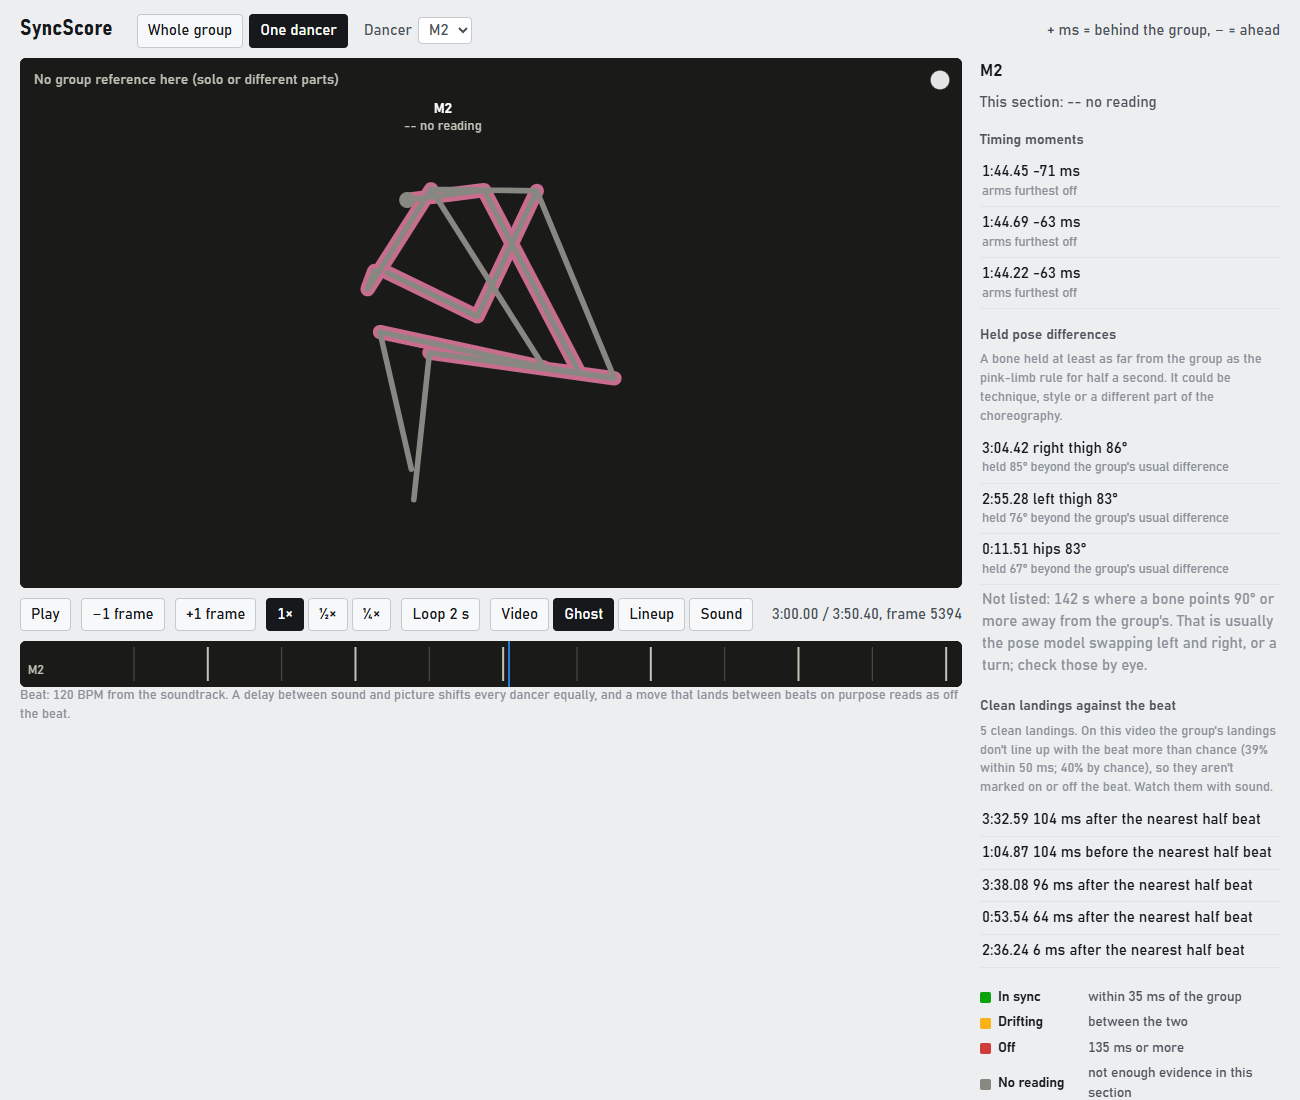
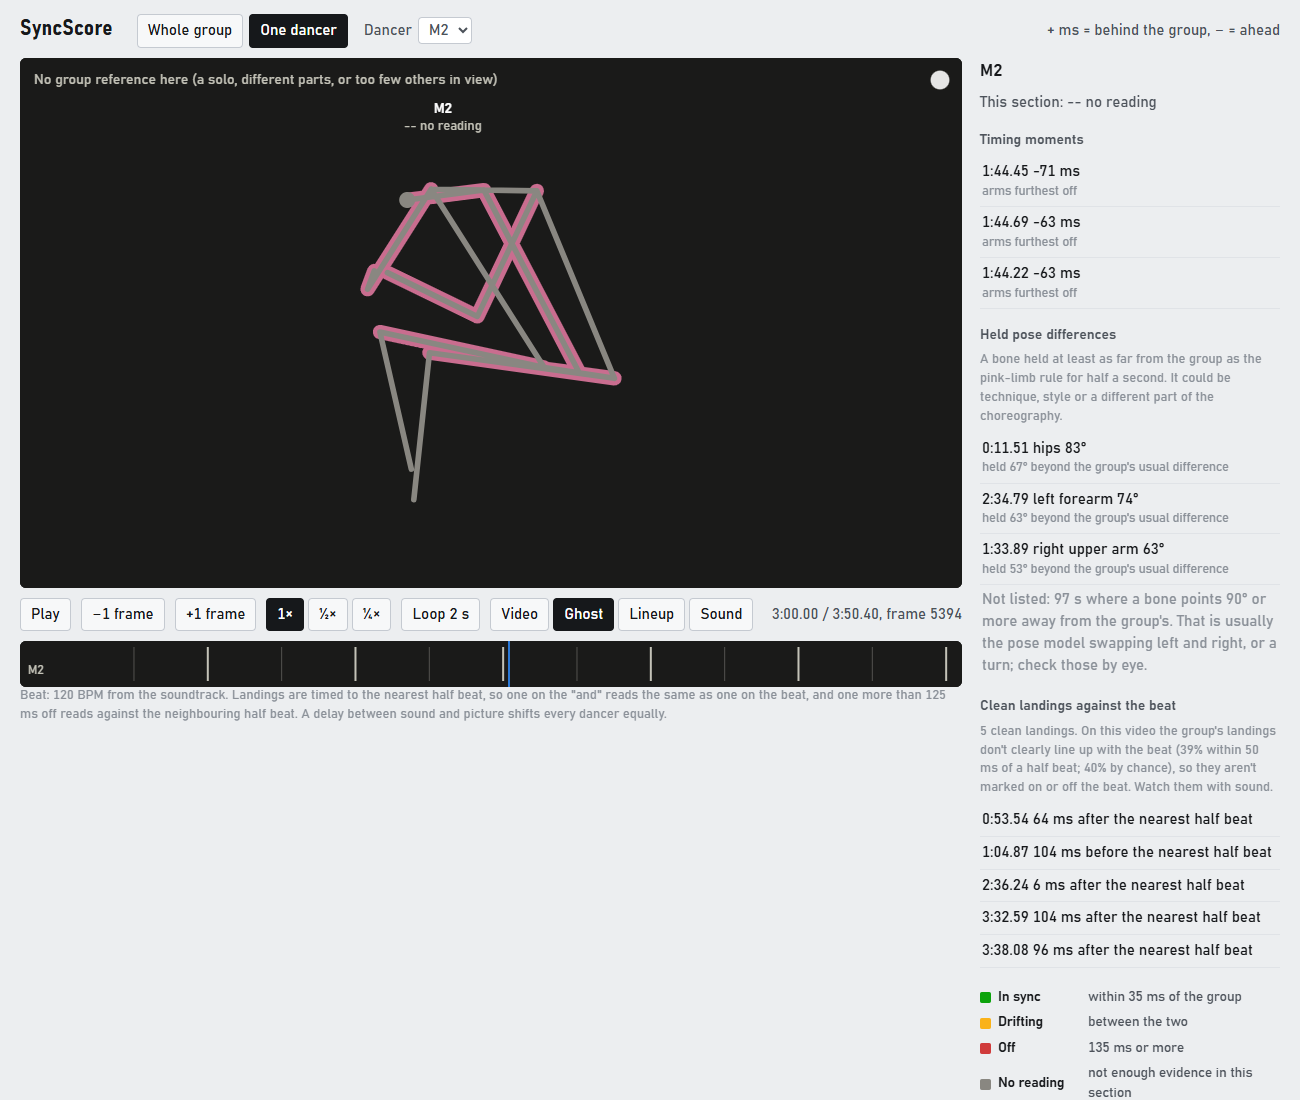
docs: Stage F corrections and refreshed screenshots

diff --git a/docs/walkthrough.md b/docs/walkthrough.md
@@ -537,7 +537,7 @@ why the grid is fitted on it.) The dancers' side doesn't, from 2D pose at 30 fps
 | what was timed against the beat (BTS clip) | events | within 50 ms of a half beat (chance: 40%) |
 |---|---|---|
 | landings of every move | 1,601 | 39% |
-| landings of big moves into stillness | 67 | 55% |
+| landings of big moves out of stillness | 67 | 55% |
 | move starts | 629 | 43% |
 | big wrist stops / elbow starts | 99 / 73 | 38% / 59% |
 | a steady beat-frequency pulse in the motion | whole clip | 1.1x background (1.0 = none) |
@@ -553,8 +553,10 @@ so it wasn't built.
 1. **Dancing together** (`sync/unison.py`). A member has a group reference only while most of the
    other members dance the same thing and the member dances it too, in the same state (moving while
    they move, still while they're still). A solo fails the state check, split parts fail the
-   "most of the others" check. There: no ghost in the viewer, a bar under the timeline, and no
-   timing against the group (those windows aren't used).
+   "most of the others" check. There: no ghost in the viewer, a bar under the timeline, no
+   timing against the group (those windows aren't used), and no pose differences listed (the
+   report's and the viewer's lists skip those frames, and the second either side of them, since
+   the decision switches a fraction of a second after the dancing does).
 2. **The beat in the viewer.** A lane under the controls with beat and off-beat ticks around the
    current moment, a pulse on each beat, a sound toggle, and each dancer's **clean landings** (a big
    move falling into stillness, timed where the speed is three quarters of the way down) as dots.
@@ -571,7 +573,7 @@ so it wasn't built.
   them could ever be together. It now counts among the others who are seen.
 - **Fixed angle limits didn't fit real footage.** In 2D, camera angle and styling put members'
   limbs apart even in unison: pairs across the clip have a median of 18 degrees and a quarter sit
-  above 24. In the chorus at 100-104 s, all seven dancing the same moves, fixed 25/30-degree limits
+  above 25. In the chorus at 100-104 s, all seven dancing the same moves, fixed 25/30-degree limits
   called each member together only 52-77% of the time. The limits now scale (at least twice the
   clip's typical difference, so 36 and 30 here, with 25/30 as floors so clean synthetic splits are
   still caught), and that chorus reads 100% together.
@@ -602,12 +604,14 @@ landing "the moment it lands" is, which is a definition (here: three quarters of
 move's peak speed down to the hold).
 
 **Limits:** the beat comes from the video's own soundtrack, so a delay between sound and picture
-shifts every dancer equally. Offsets are to the nearest half beat, so a landing more than 125 ms
-off reads as early or late against the neighbouring one, and a move that lands between beats on
-purpose reads as off the beat. "Together" is judged in 2D: a canon and individual parts read as
+shifts every dancer equally. Offsets are to the nearest half beat (the beat or the "and"), so a
+landing on the "and" reads the same as one on the beat, one more than 125 ms off reads against the
+neighbouring half beat, and only a landing between half beats on purpose (a sixteenth) reads as off.
+The page says so under the lane. "Together" is judged in 2D: a canon and individual parts read as
 apart (as intended), and so can members dancing the same move while facing very different ways.
-A tempo that isn't steady (at least 70% of tracked beats within 40 ms of one grid) gets no lane,
-and the page says why.
+A tempo that isn't steady gets no lane, and the page says why: steady means at least 70% of the
+tracked beats within 40 ms of one grid, and at least half of them in every 20 s (so a tempo change
+late in the song isn't hidden by the rest; the BTS clip's weakest 20 s has 62%).
 
 | | |
 |---|---|

diff --git a/README.md b/README.md
@@ -76,7 +76,8 @@ ghost; a wrong arm shows as the gap between their arm and the ghost's.
 - Links open the page at a moment: `index.html?t=62.9&view=dancer&member=M3&speed=0.25`.
 - **Only while the group dances together:** during a solo, split parts, or a member holding their
   own pose while the others dance, the group is no reference for them. There is no ghost, a grey
-  bar marks the stretch under their timeline row, and those moments don't count for timing.
+  bar marks the stretch under their timeline row, and those moments don't count for timing or
+  for the listed pose differences.
 - **The beat:** from the video's soundtrack, a lane under the controls shows the beat and the "and"
   around the current moment, a dot pulses on each beat, and **Sound** plays the music (at ¼ speed
   too). Each dancer's **clean landings** (a big move falling into stillness) sit on the lane as dots,
@@ -204,8 +205,10 @@ Real accuracy is bounded by the pose model.
   fell within 50 ms of a half beat 38.5% of the time where chance is 40%. Only the very biggest moves
   leaned toward the beat in an earlier test (55-59%, about ten per dancer in the whole song), far
   too few to time anyone by (docs/walkthrough.md, Stage F). Most choreography isn't hit-and-hold,
-  and a 2D landing at 30 fps can't be pinned to tens of milliseconds. A delay between sound and picture would shift every dancer equally, and a move that
-  lands between beats on purpose reads as off the beat.
+  and a 2D landing at 30 fps can't be pinned to tens of milliseconds. A delay between sound and
+  picture would shift every dancer equally. Offsets are to the nearest half beat, so a landing on
+  the "and" reads like one on the beat, and one more than 125 ms off (at 120 BPM) reads against the
+  neighbouring half beat.
 - **Dancing together is judged in 2D.** A canon (the same move in turn) and individual parts read
   as apart, which is the intent; members dancing the same move facing very different ways can also
   read as apart.
